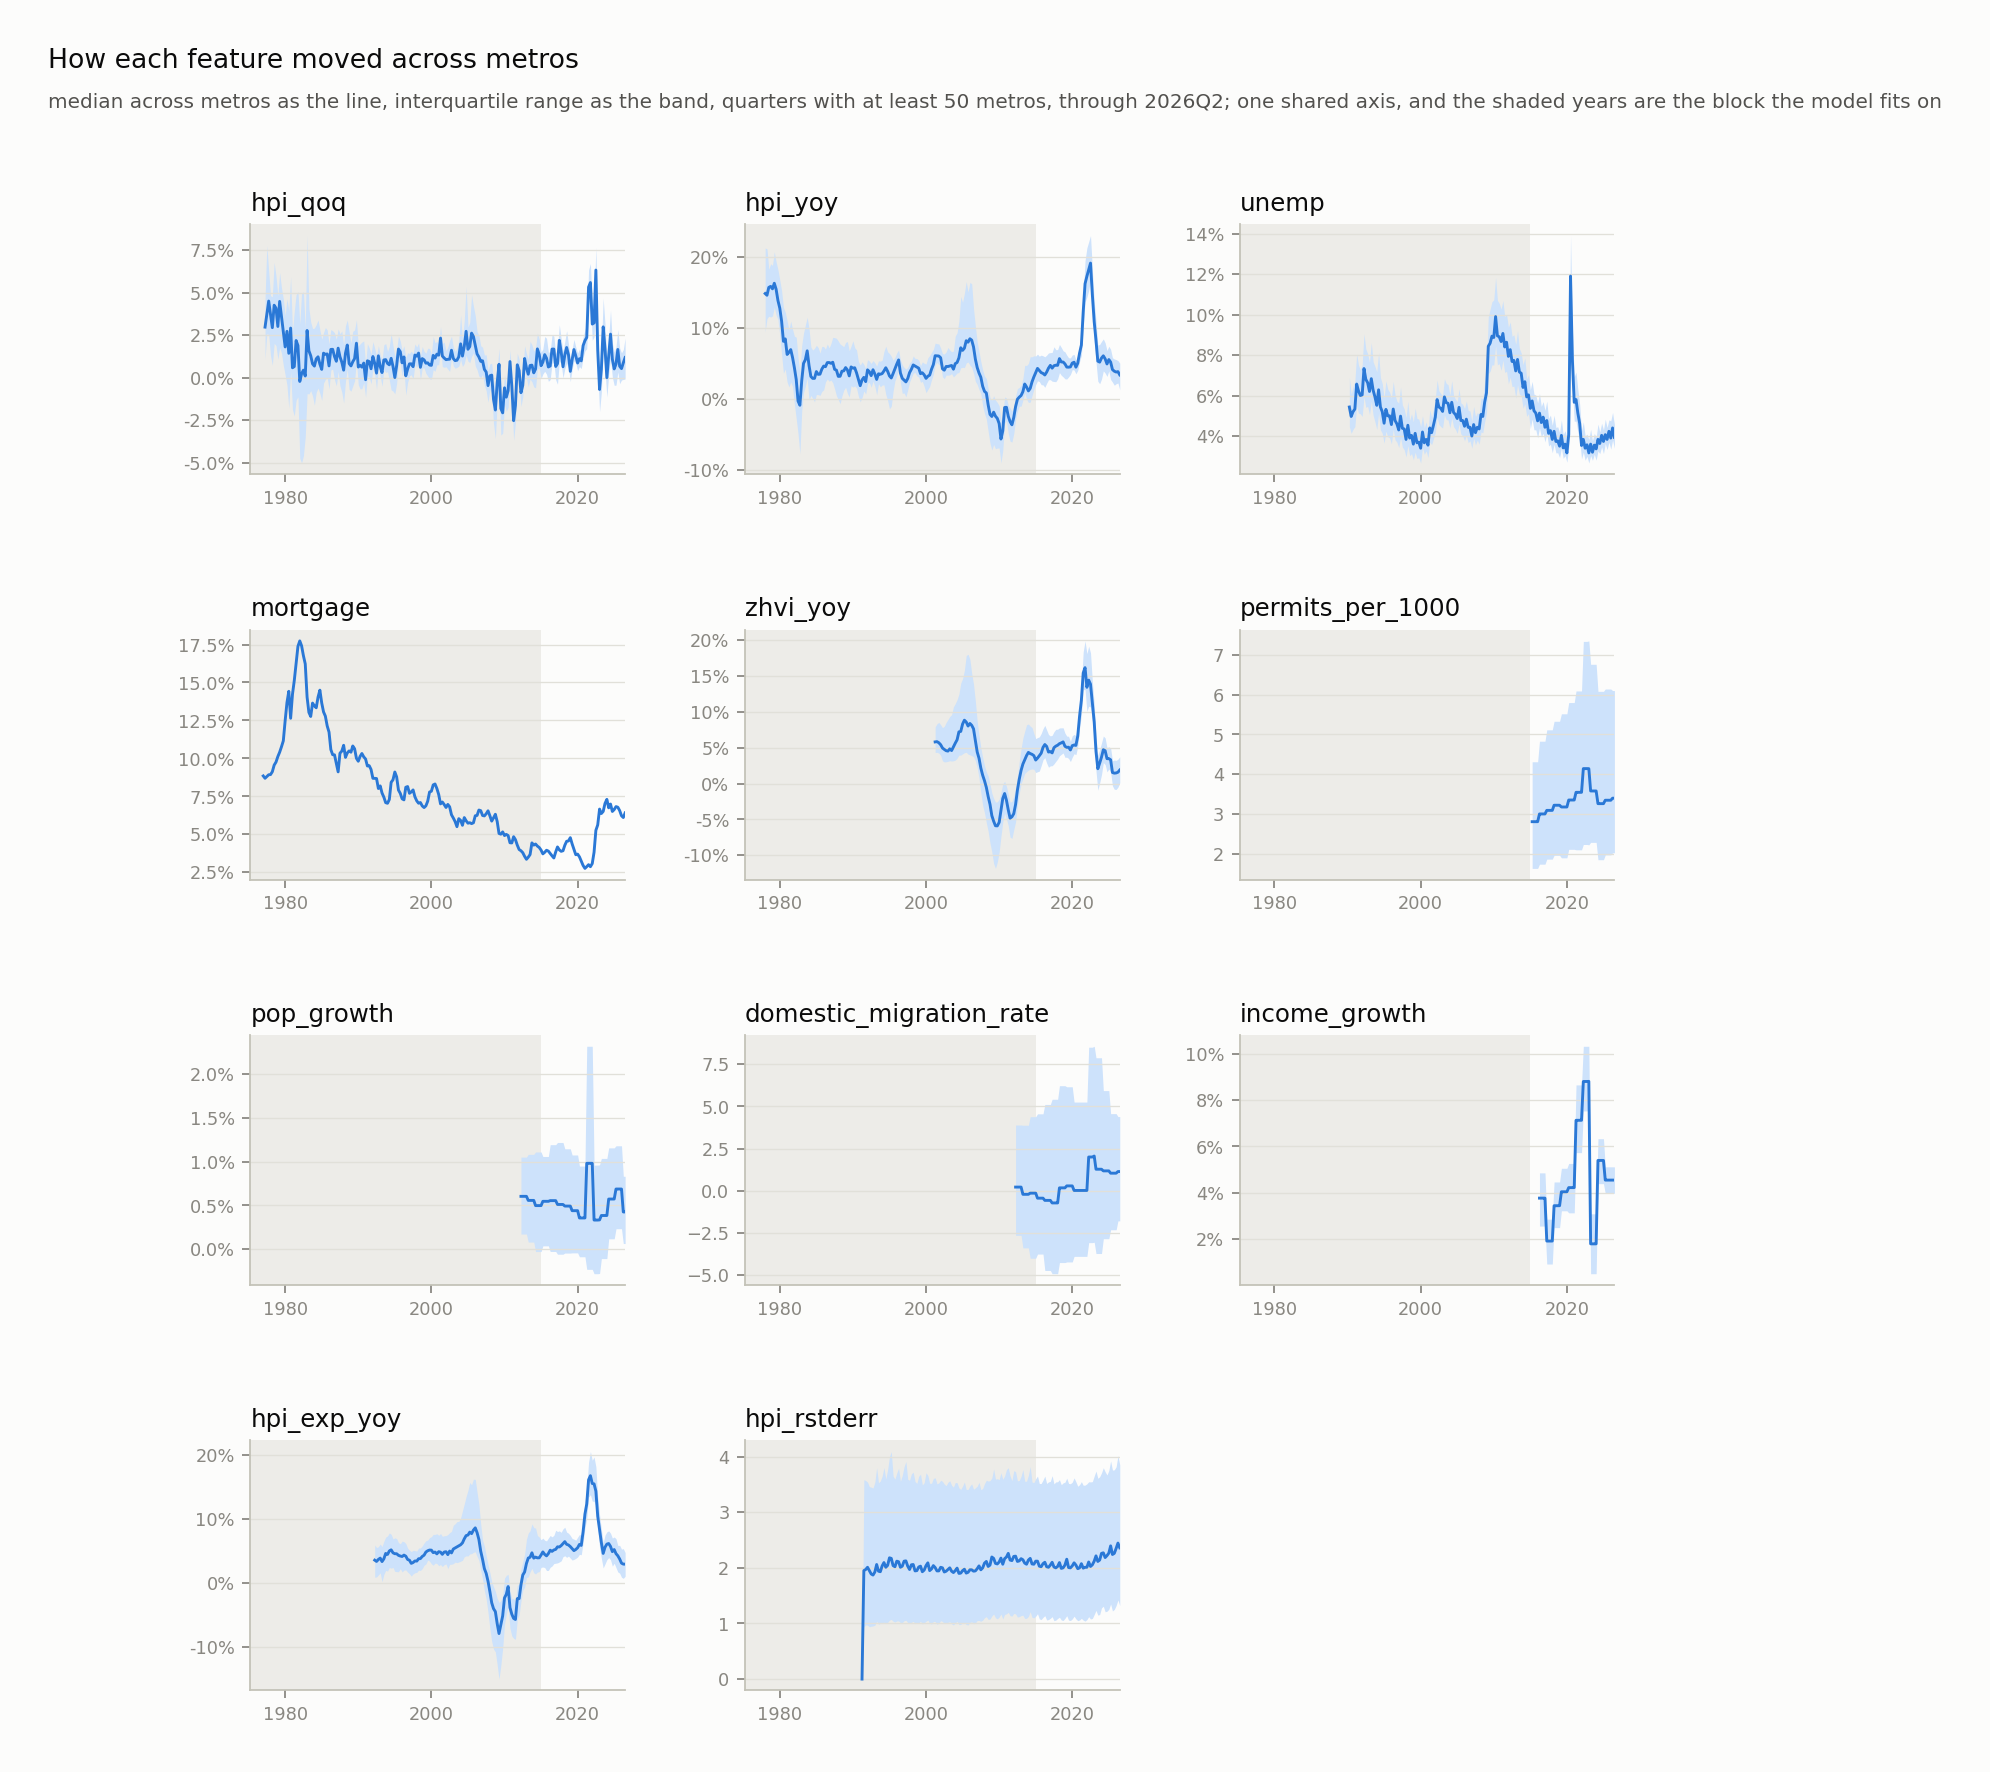
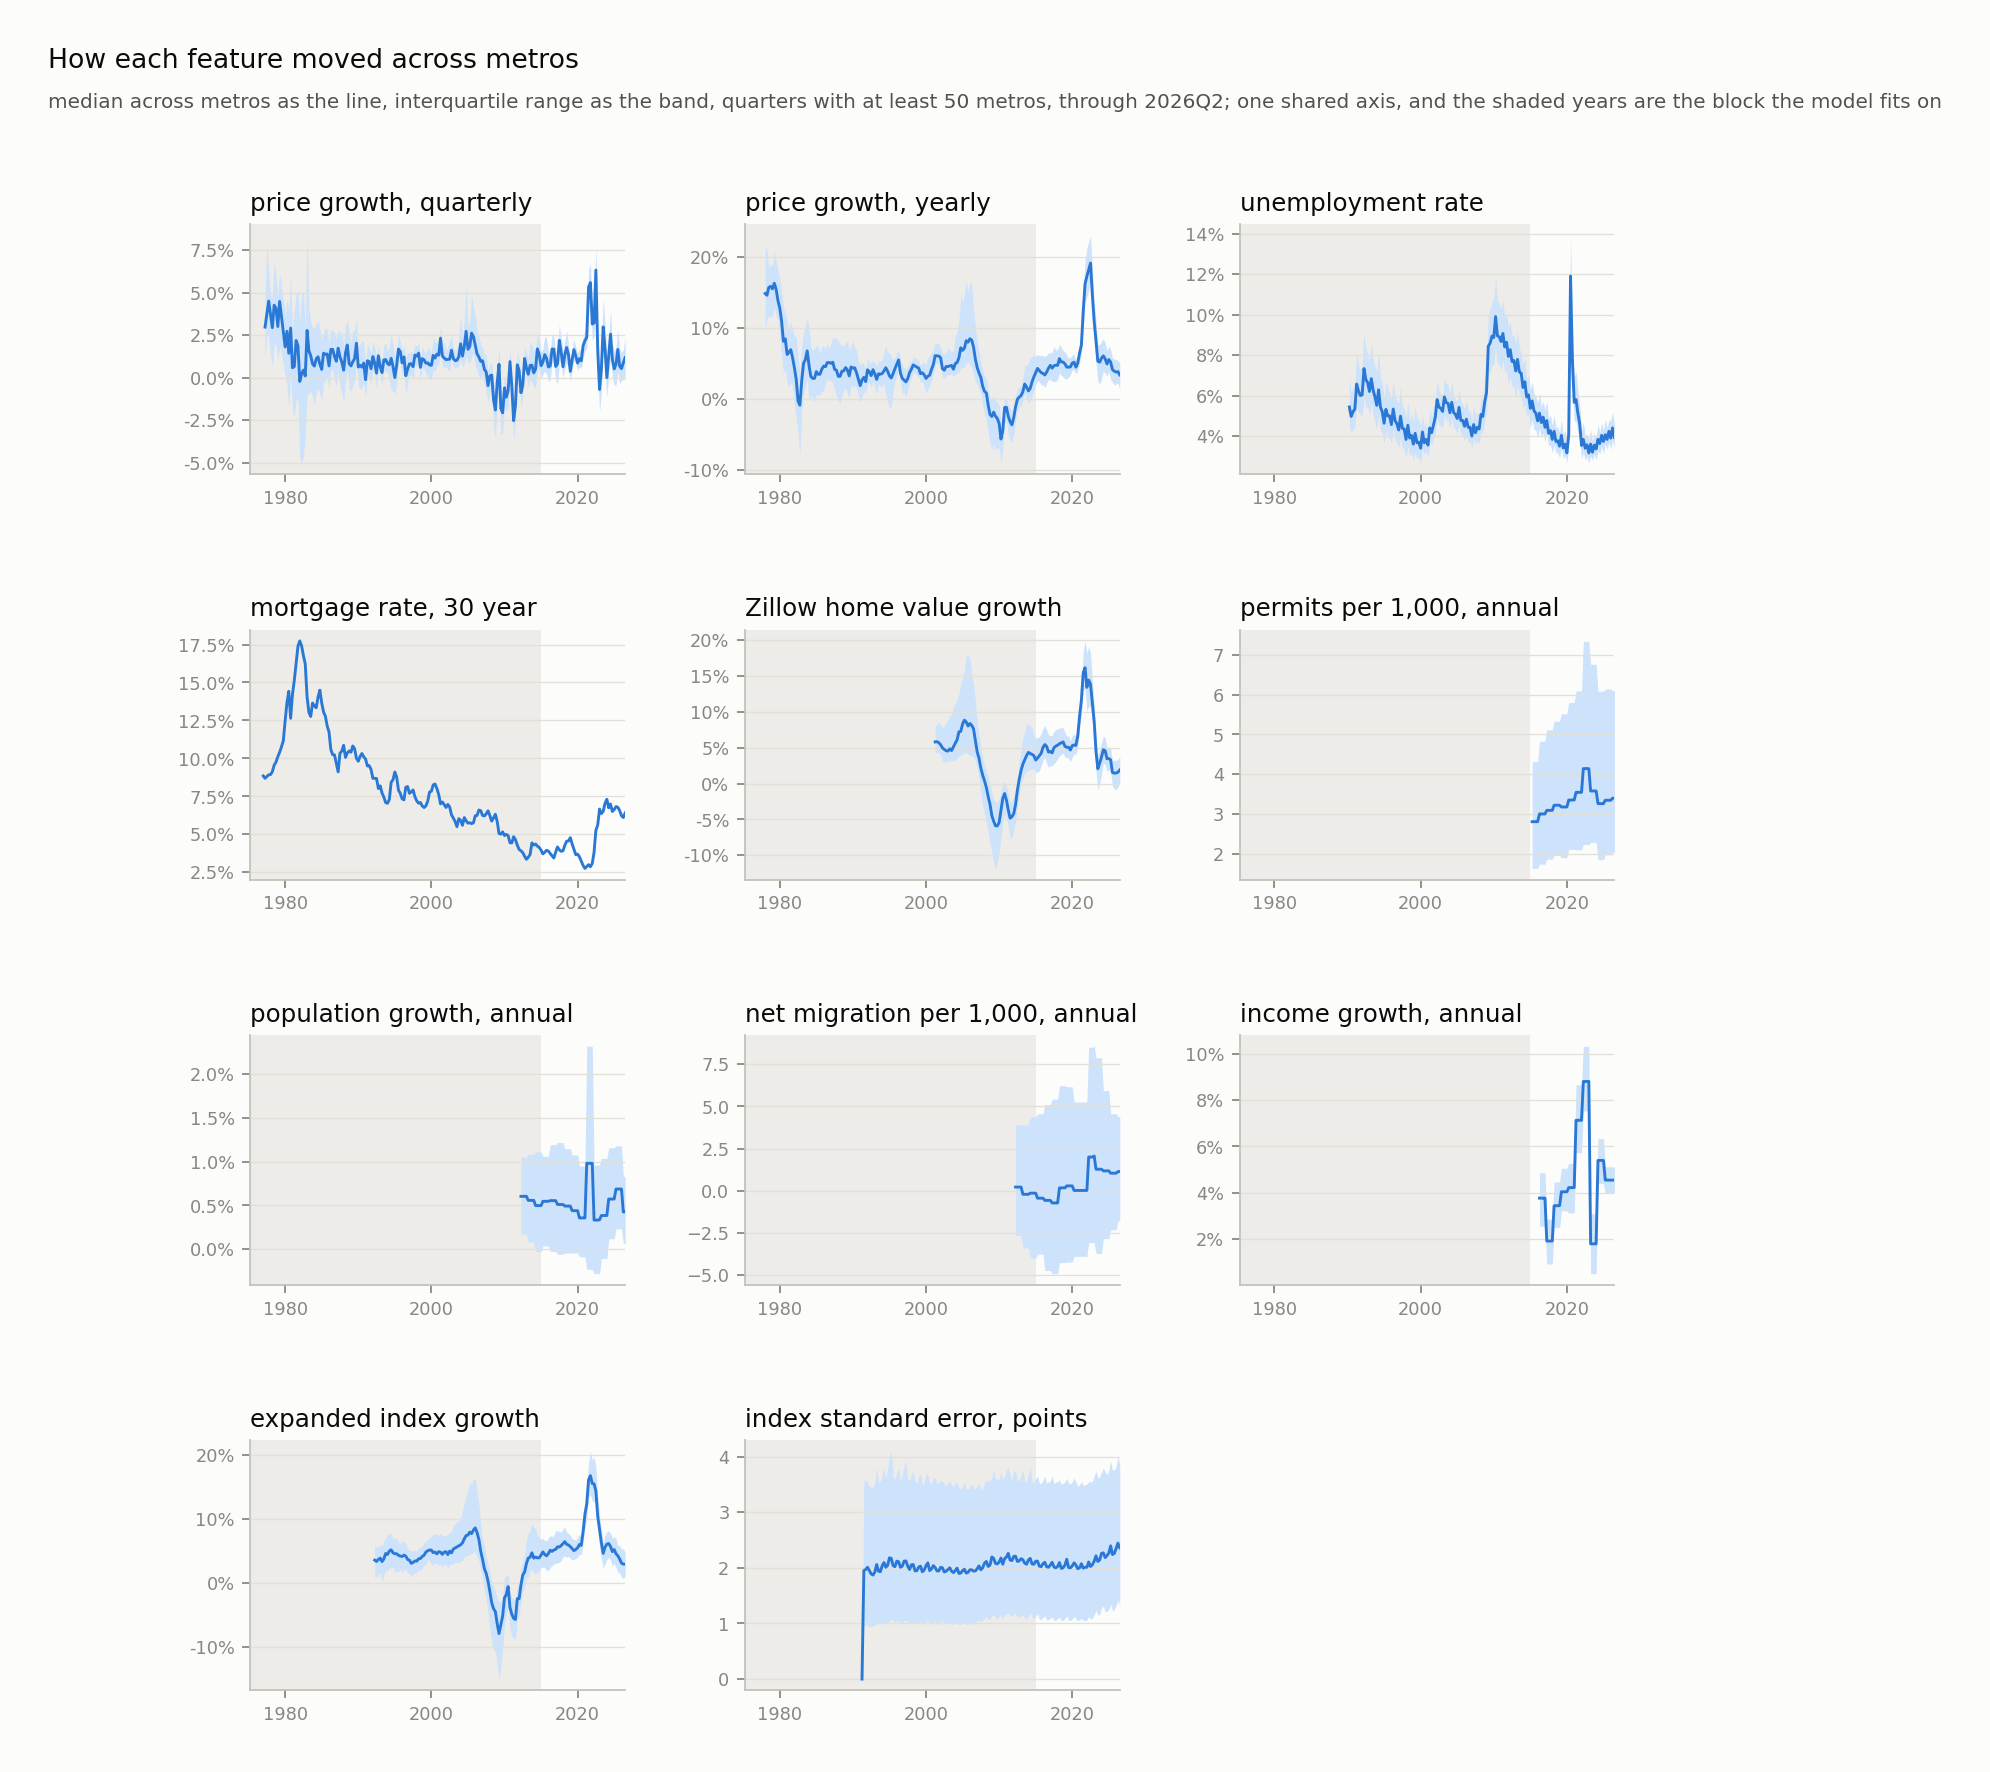
fix: the feature panels were titled with column names and no units
every panel of 03 was headed by its dataframe column, so a reader saw
domestic_migration_rate over an axis of bare numbers running minus five to
seven and a half with nothing saying per what. pop_growth next to it was
percent formatted, which made the two look like the same kind of quantity.

each panel says what it is and what its axis counts now, and the four columns
fed by an annual source say "annual", because they are held flat across their
year and draw as a staircase that nothing explained.

02's end labels are dense but spread() already keeps them apart at 9.5 points,
so they are left alone. no number moved.

diff --git a/ml/src/loop/panel.py b/ml/src/loop/panel.py
@@ -590,6 +590,23 @@ GROWTH = ["hpi_qoq", "hpi_yoy", "zhvi_yoy", "zori_yoy", "pop_growth", "income_gr
           "inventory_yoy", "hpi_exp_yoy", "hpi_yoy_rel", "cpi_yoy"]
 RATES = ["unemp", "mortgage", "treasury_10y", "term_spread", "natl_unemp"]
 
+# what each panel of figure 03 is called and what its axis counts. the columns
+# fed by an annual source are held flat across their year, so they draw as
+# steps, and saying "annual" is cheaper than explaining the staircase
+FEATURE_LABELS = {
+    "hpi_qoq": "price growth, quarterly",
+    "hpi_yoy": "price growth, yearly",
+    "unemp": "unemployment rate",
+    "mortgage": "mortgage rate, 30 year",
+    "zhvi_yoy": "Zillow home value growth",
+    "permits_per_1000": "permits per 1,000, annual",
+    "pop_growth": "population growth, annual",
+    "domestic_migration_rate": "net migration per 1,000, annual",
+    "income_growth": "income growth, annual",
+    "hpi_exp_yoy": "expanded index growth",
+    "hpi_rstderr": "index standard error, points",
+}
+
 
 # share of metros with a value in each year, one row per source series
 def coverage_table(panel):
@@ -739,7 +756,7 @@ def feature_trends_figure(panel):
         scale = spec.pct if column in GROWTH else (lambda v: np.asarray(v, dtype=float))
         ax.fill_between(stats.index, scale(stats["lo"]), scale(stats["hi"]), color=charts.BAND, linewidth=0)
         ax.plot(stats.index, scale(stats["mid"]), color=charts.SERIES[0], linewidth=1.3)
-        ax.set_title(column)
+        ax.set_title(FEATURE_LABELS.get(column, column))
         if column in GROWTH or column in RATES:
             ticks = ax.get_yticks()
             charts.pct_axis(ax, decimals=0 if np.allclose(ticks, np.round(ticks)) else 1)
